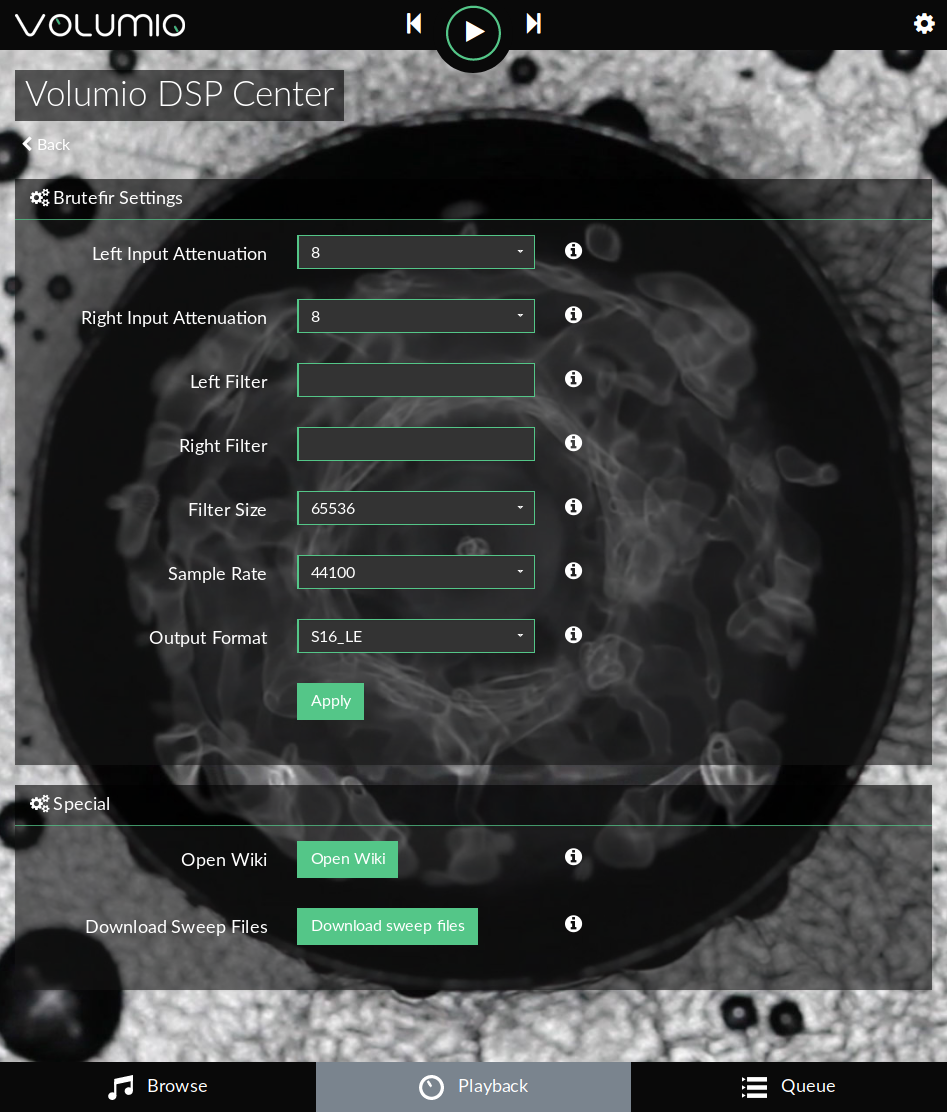
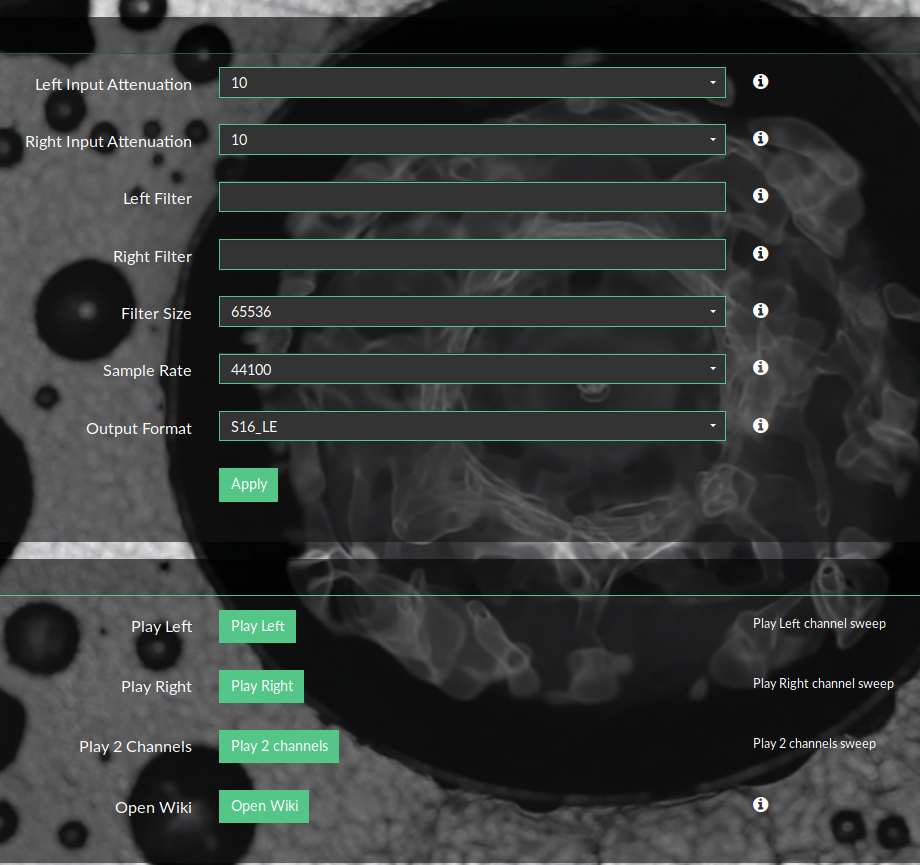
brutefir - add play buttons

diff --git a/docs/06_Plugins_User_Manual/00_brutefir/01_Preparing_your_system.md b/docs/06_Plugins_User_Manual/00_brutefir/01_Preparing_your_system.md
@@ -17,7 +17,7 @@ You can now test with a filter, just fill __Left Filter__ and __Right filter__ i
 (few filters to test are installed by the plugin, they are placed in `/data/INTERNAL/brutefirfilter`)
 * `test4fa`
 
-<img src="./img/first_filter.png" width="624">
+<img src="./img/first_filter.png">
 
 and press `Apply` (It can be done while playing)
 
